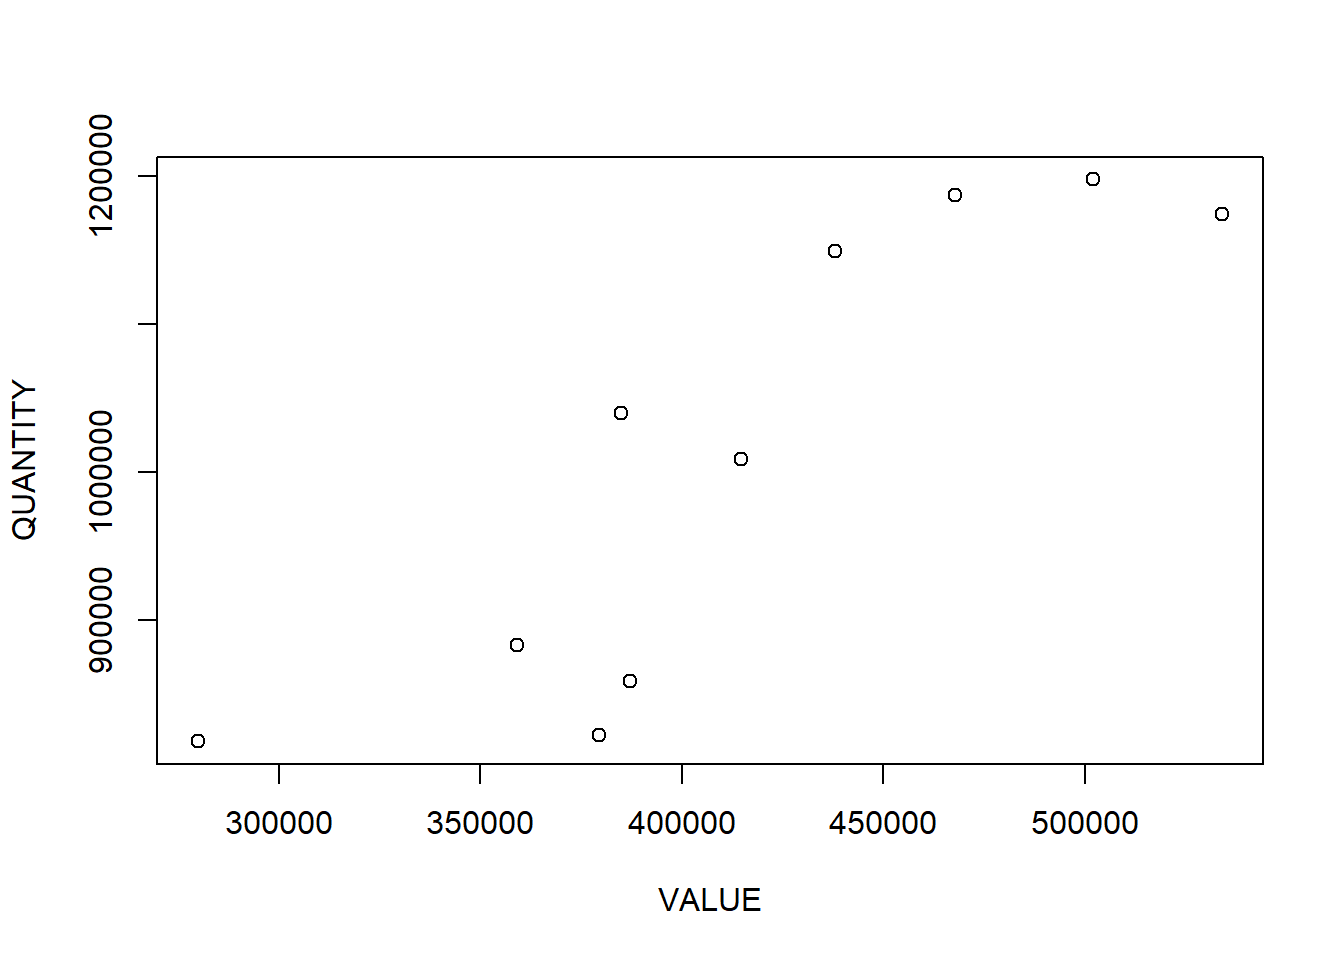
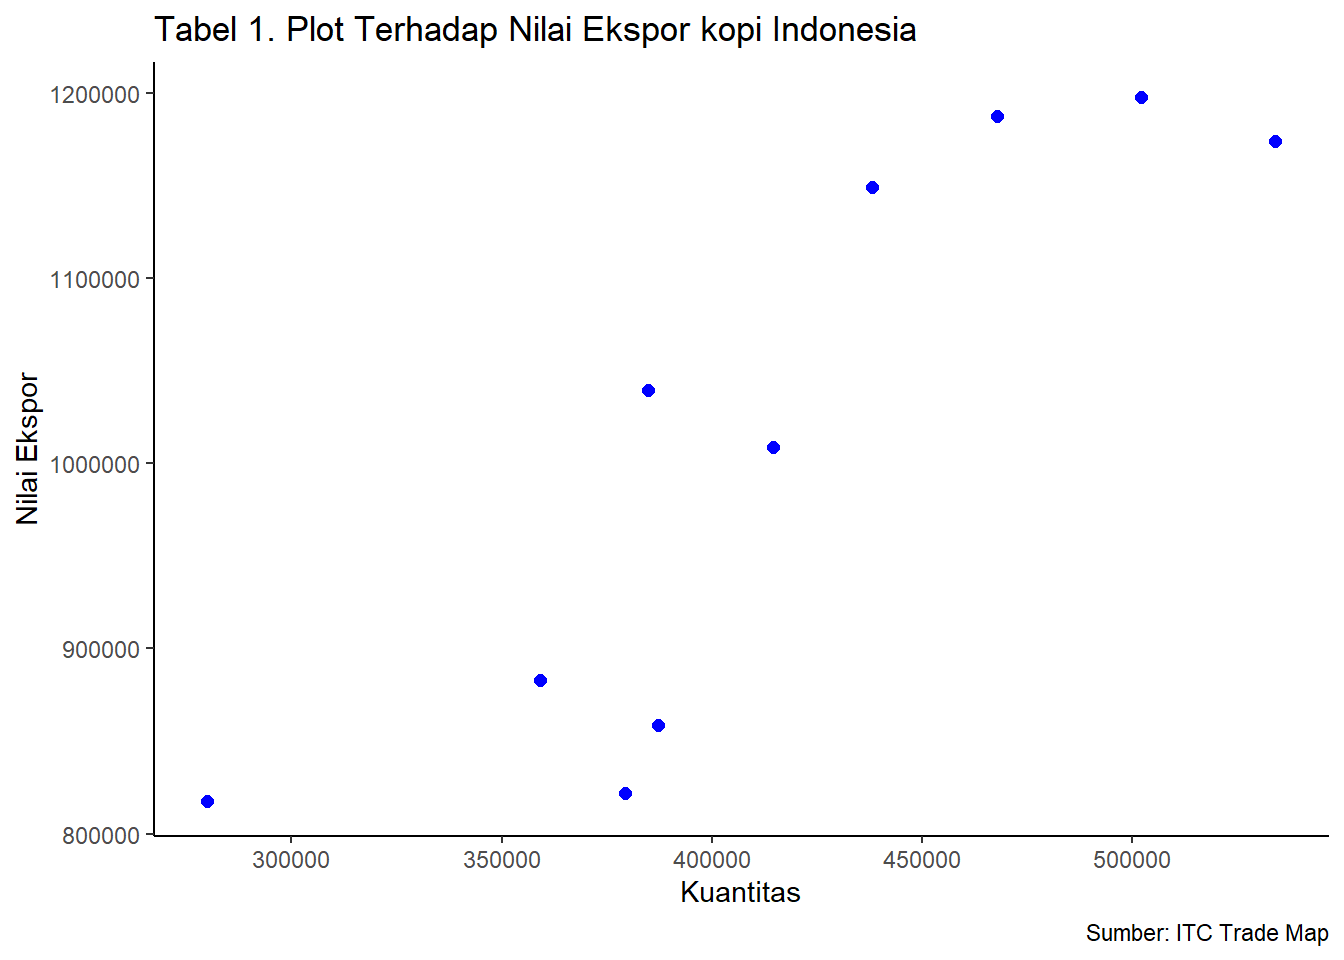
Add files via upload

diff --git a/index.html b/index.html
@@ -296,11 +296,17 @@ y_{t}=\beta_0 + \beta_1 x_t+\mu_t
 <h2 data-number="4" class="anchored" data-anchor-id="pembahasan"><span class="header-section-number">4</span> PEMBAHASAN</h2>
 <section id="pembahasan-masalah" class="level3" data-number="4.1">
 <h3 data-number="4.1" class="anchored" data-anchor-id="pembahasan-masalah"><span class="header-section-number">4.1</span> Pembahasan masalah</h3>
-<p>Berikut adalah hasil dari plot x dan y. dengan x sebagai nilai(value) ekpor kopi Indonesia dan y sebagai kuanitas ekpor kopi Indonesia. maka didapatkan plot sebagai berikut :</p>
+<p>Berikut adalah hasil dari plot x dan y, dengan x sebagai kuantitas ekpor kopi Indonesia dan y sebagai nilai (value) ekpor kopi Indonesia. maka didapatkan plot sebagai berikut :</p>
 <div class="cell">
-<div class="sourceCode cell-code" id="cb2"><pre class="sourceCode r code-with-copy"><code class="sourceCode r"><span id="cb2-1"><a href="#cb2-1" aria-hidden="true" tabindex="-1"></a><span class="fu">library</span>(readxl)</span>
-<span id="cb2-2"><a href="#cb2-2" aria-hidden="true" tabindex="-1"></a>dat<span class="ot">&lt;-</span><span class="fu">read_excel</span>(<span class="st">"latihan3.xlsx"</span>)</span>
-<span id="cb2-3"><a href="#cb2-3" aria-hidden="true" tabindex="-1"></a><span class="fu">plot</span>(dat<span class="sc">$</span>X,dat<span class="sc">$</span>Y,<span class="at">xlab=</span><span class="st">"VALUE"</span>,<span class="at">ylab=</span><span class="st">"QUANTITY"</span>)</span></code><button title="Copy to Clipboard" class="code-copy-button"><i class="bi"></i></button></pre></div>
+<div class="sourceCode cell-code" id="cb2"><pre class="sourceCode r code-with-copy"><code class="sourceCode r"><span id="cb2-1"><a href="#cb2-1" aria-hidden="true" tabindex="-1"></a>dat<span class="ot">&lt;-</span><span class="fu">read_excel</span>(<span class="st">'latihan3.xlsx'</span>)</span>
+<span id="cb2-2"><a href="#cb2-2" aria-hidden="true" tabindex="-1"></a><span class="fu">library</span>(ggplot2)</span>
+<span id="cb2-3"><a href="#cb2-3" aria-hidden="true" tabindex="-1"></a><span class="fu">ggplot</span>(<span class="at">data=</span>dat, <span class="fu">aes</span>(<span class="at">x=</span>X, <span class="at">y=</span>Y))<span class="sc">+</span></span>
+<span id="cb2-4"><a href="#cb2-4" aria-hidden="true" tabindex="-1"></a>  <span class="fu">geom_point</span>(<span class="at">color=</span><span class="st">'blue'</span>, <span class="at">size=</span><span class="dv">2</span>)<span class="sc">+</span></span>
+<span id="cb2-5"><a href="#cb2-5" aria-hidden="true" tabindex="-1"></a>  <span class="fu">labs</span>(<span class="at">title=</span><span class="st">"Tabel 1. Plot Terhadap Nilai Ekspor kopi Indonesia"</span>,</span>
+<span id="cb2-6"><a href="#cb2-6" aria-hidden="true" tabindex="-1"></a>       <span class="at">x=</span><span class="st">"Kuantitas"</span>,</span>
+<span id="cb2-7"><a href="#cb2-7" aria-hidden="true" tabindex="-1"></a>       <span class="at">y=</span><span class="st">"Nilai Ekspor"</span>,</span>
+<span id="cb2-8"><a href="#cb2-8" aria-hidden="true" tabindex="-1"></a>       <span class="at">caption =</span> <span class="st">"Sumber: ITC Trade Map"</span>) <span class="sc">+</span></span>
+<span id="cb2-9"><a href="#cb2-9" aria-hidden="true" tabindex="-1"></a>  <span class="fu">theme_classic</span>()</span></code><button title="Copy to Clipboard" class="code-copy-button"><i class="bi"></i></button></pre></div>
 <div class="cell-output-display">
 <div>
 <figure class="figure">
